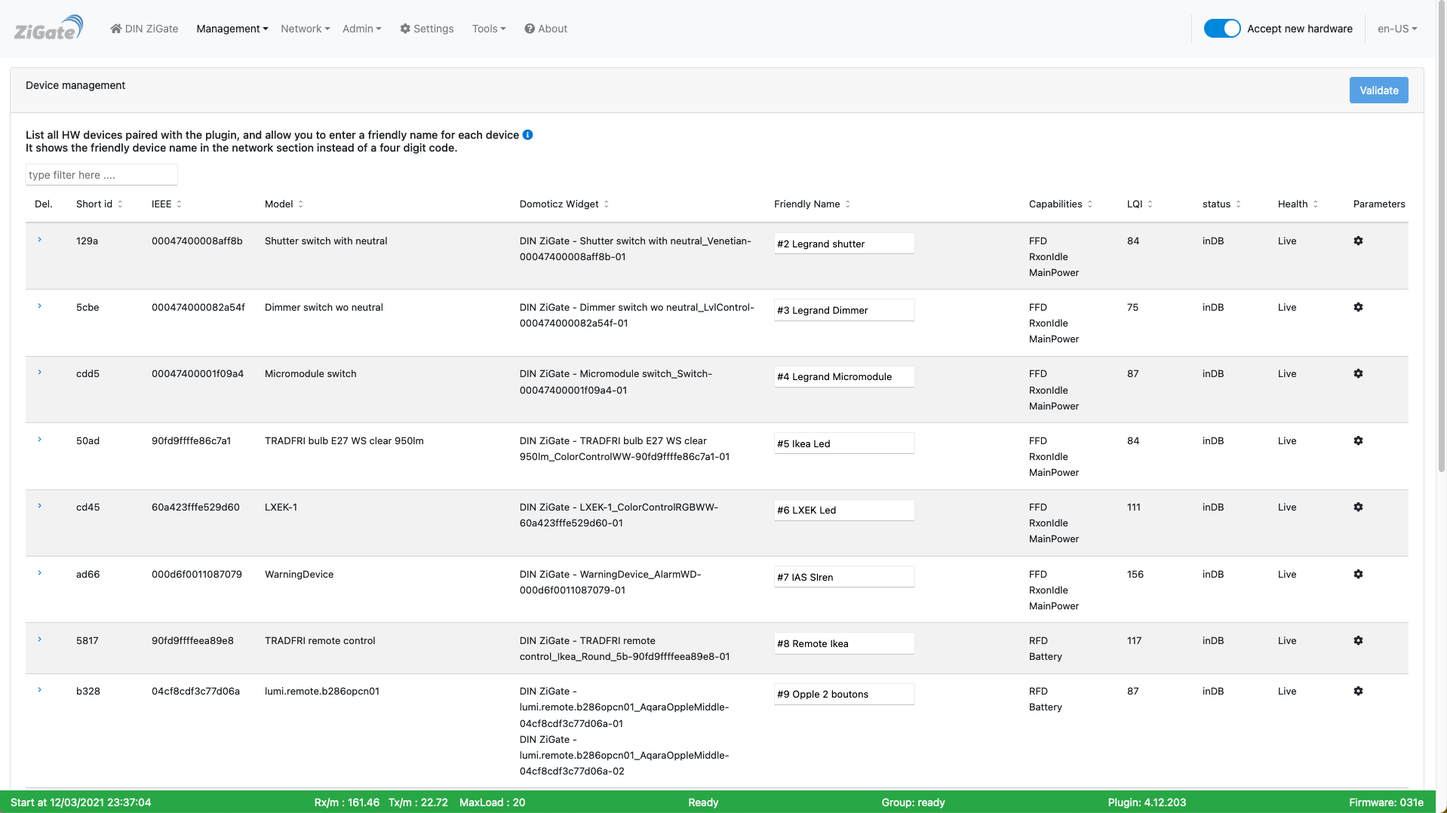
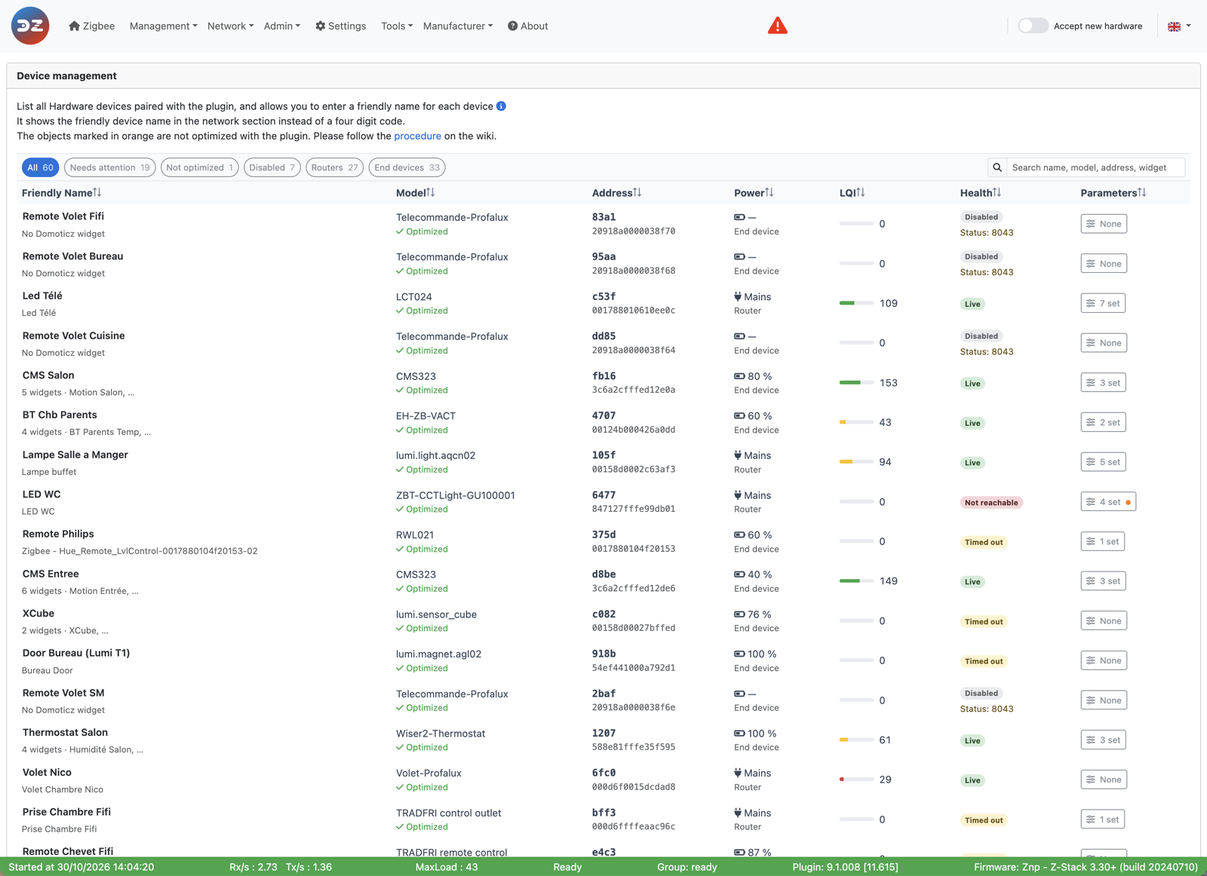
Document the 9.1.009 Dashboard and Device Management pages
Dashboard: key figures, Needs attention with its JSON exports, the
per-minute traffic chart and Since start, the device bars.
Device Management: list, filters and search, rename in the row, the
parameter panel (switch, Fields / JSON), the device details window with
Remove device and Copy device info.

New screenshots from a live installation. The pages that pointed at the
old trash column, the Optimized icon or the {'key': value} syntax now
describe the new controls, with the pre-9.1.009 way in one line.

Claude-Session: https://claude.ai/code/session_017BKZpKLKST3UyQq2TkuUAr

diff --git a/en-eng/WebUI_Management.md b/en-eng/WebUI_Management.md
@@ -11,42 +11,81 @@ The __Management__ menu contains the pages:
 ------------------------------------------------
 ## Device Management
 
-The __Device Management__ page (*Management > Device Management*) lists all the devices paired with the plugin.
+The __Device Management__ page (*Management > Device Management*) lists all the devices paired with the plugin. From it you rename a device, set its parameters, enable or disable it, and open its details.
+
+> **Plugin 9.1.009 and later.** This section describes the Device Management page available since plugin 9.1.009. In older versions, the page is a wide table with a *Del.* (trash) column, an *Optimized* icon to copy the device data, names typed in the table and saved with *Validate*, and a parameter window where the parameters are typed as one text.
 
 ![Device Management](Images/EN_WebUI-Management-Device.png)
 
 *This picture may have changed since this documentation was written.*
 
-### Columns
+### The list
 
 | Column | Content |
 |--------|---------|
-| Del. | A trash icon to remove the device from the plugin, after confirmation. It only appears for a device the plugin considers broken: no Domoticz widget, not found in Domoticz, or a pairing that did not complete. To remove a working device, see [Remove a device](HowTo_Remove-device.md). |
-| Optimized | Green icon: the plugin has a certified configuration for this model. Orange icon: it hasn't (see [Dealing with a non-optimized device](Problem_Dealing-with-none-optimized-device.md)). Clicking either icon copies the device's discovery data to the clipboard, ready to paste into a request for support. |
-| Short id | The network address (NwkId) of the device. It can change when the device rejoins. |
-| IEEE | The unique, permanent address of the device. |
-| Model | The model name reported by the device. |
-| Domoticz Widget | The Domoticz widgets created for this device. |
-| Friendly Name | A name of your choice, used by the WebUI to identify the device. Click the cell to edit it. |
-| Capabilities | What the device announced when it joined: *Full-Function Device* (a router) or *Reduced-Function Device* (an end device), *Main Powered*, *Receiver during Idle* (always listening), security level. |
-| LQI | The last link quality seen from this device. |
-| RSSI | The last signal strength seen from this device. Only shown when the coordinator reports it. |
-| Status | The pairing state of the device in the plugin (`inDB` once fully paired). |
-| Health | `Live`, `Not seen last 24hours`, `Not Reachable`, `TimedOut`, `Disabled`… |
-| Parameters | A cog icon opening the parameter editor of the device (see below). |
+| Friendly Name | The name you gave the device (the model, in italics, when it has none). Below it, its Domoticz widget, or the number of widgets and the first one, or *No Domoticz widget*. Click the name to rename the device (see below). |
+| Model | The model name reported by the device, and below it *Optimized* (in green) when the plugin has a certified configuration for this model, or *Not optimized* (in orange) when it hasn't (see [Dealing with a non-optimized device](Problem_Dealing-with-none-optimized-device.md)). |
+| Address | The network address (short id, NwkId), which can change when the device rejoins, and below it the IEEE, the unique and permanent address of the device. |
+| Power | *Mains*, or the battery level (in red at 15 % and below), and the role of the device in the mesh: *Router* or *End device*. |
+| LQI | The last link quality seen from this device (0 to 255), with a bar: green from 100, orange from 40, red below. When the coordinator reports it, the RSSI is shown below. |
+| Health | *Live*, *Not seen recently*, *Not reachable*, *Timed out*, *Disabled*, *Unknown*. A device whose pairing is not complete shows a warning below: *Pairing failed*, *Not in Domoticz*, or *Status:* followed by the pairing state of the plugin. |
+| Parameters | The number of parameters set for the device (*None* when there is none). An orange dot means the last saved parameters wait for the device's next heartbeat. Click it to open the parameter panel (see below). |
 
-Use the filter box at the top to search any column, and click a column header to sort.
+Above the list:
 
-After editing names, click *Validate* to save.
+* **Quick filters**, with the number of devices in each: *All*, *Needs attention* (not reachable, timed out, not seen recently, battery at 15 % or below, or pairing not complete), *Not optimized*, *Disabled*, *Routers*, *End devices*.
+* **Search**: type part of a name, model, short id, IEEE or widget name.
+
+Click a column header to sort the list. The page remembers your sort order and page size.
+
+### Rename a device
+
+The friendly name is used by the WebUI to show the device, in the network pages for example, instead of its four-digit short id.
+
+![Rename a device](Images/EN_WebUI-Management-Device-Rename.png)
+
+1. Click the name of the device: it becomes an input field.
+1. Type the new name.
+1. Press `Enter`, or click ✓. Only this device is saved, at once.
+
+`Esc`, ✕ or a click elsewhere cancels the change.
 
 ### Parameters
 
-The cog of the *Parameters* column opens a window with:
+The *Parameters* button of a row (or the *Parameters* button of the [device details](#device-details)) opens a side panel:
 
-* **Device enabled**: switch it off to disable the device. The plugin then stops polling and monitoring it, and refuses the commands sent to it; *Health* shows `Disabled`.
-* **Parameters**: the device's own parameters, as JSON. The cog is green when the parameters are in sync with the device, and orange when they have not been pushed to it yet. See [Device parameters](HowTo_Device-parameters.md) for the parameters you can set and their values.
+![Device parameters, Fields](Images/EN_WebUI-Management-Device-Parameters.png)
 
-![Device parameters](../Images/EN_WebUI-Device-management-parametres.png)
+* **Device enabled**: switch it off to disable the device. The plugin then ignores its messages, skips it at heartbeat and sends it no command; *Health* shows *Disabled*. Switch it on again to enable the device.
+* **Device parameters**: the device's own parameters. *What can I set?* opens [Device parameters](HowTo_Device-parameters.md), the list of the parameters and their values. Two views of the same parameters:
+  * **Fields**: one field per parameter. A value is a number, a text, `true` / `false`, or JSON such as `{"01": 600}`; an invalid value is outlined in red. ✕ removes a parameter. To add one, type its name under *Add a parameter*, click *Add*, then fill its value.
+  * **JSON**: all the parameters as one JSON object, checked as you type (*Valid JSON · n parameter(s)*). Use double quotes: `{"PowerPollingFreq": 120}`.
+
+  ![Device parameters, JSON](Images/EN_WebUI-Management-Device-Parameters-JSON.png)
+
+  The `Disabled` parameter is not accepted in either view: use the *Device enabled* switch.
+* **Save parameters** saves the switch and the parameters of this device only. The panel closes once the plugin has accepted them. They are sent to the device at its next heartbeat: until then, the *Parameters* button shows an orange dot. *Cancel*, ✕ or `Esc` closes the panel without saving.
+
+If the parameters stored by the plugin can't be read, the panel opens on the *JSON* view with the stored text, so you can fix it.
+
+### Device details
+
+Click anywhere else on a row (or press `Enter` on a selected row) to open the details of the device:
+
+![Device details](Images/EN_WebUI-Management-Device-Details.png)
+
+* **From the device configuration**: the description and the comment of the device configuration, and a *Blakadder* line: a link to the device page on [zigbee.blakadder.com](https://zigbee.blakadder.com) or, when there is none yet, a *Please create the device info* link to add it.
+* **The device**: name, network id (short id), IEEE, model, manufacturer (code and name), Profile ID and Device ID with their meaning, health.
+* **Signal**: the last readings of the signal strength (RSSI, in dBm) when the coordinator reports it, else of the link quality (LQI), with the latest, lowest and highest values.
+* **Domoticz widgets**: the widgets created for this device.
+* **Node descriptor**: what the device announced about itself, decoded: logical type (coordinator, router, end device), frequency band, MAC capability (full- or reduced-function device, mains or battery powered, receiver on when idle…), manufacturer code, buffer and transfer sizes, server mask, stack compliance revision.
+
+The buttons at the bottom:
+
+* **Remove device**: removes the device from the plugin, after confirmation. It is only available for a device whose pairing failed, that is not in Domoticz, or that has no widget. To remove a working device, see [Remove a device](HowTo_Remove-device.md).
+* **Copy device info**: copies the discovery data of the device (what the plugin learned during pairing) to the clipboard, ready to paste into a request for support or for the optimization of the device (see [Dealing with a non-optimized device](Problem_Dealing-with-none-optimized-device.md)).
+* **Parameters**: opens the [parameter panel](#parameters).
+* **Close**.
 
 ------------------------------------------------
 ## Group Management

diff --git a/en-eng/WebUI_Dashboard.md b/en-eng/WebUI_Dashboard.md
@@ -2,25 +2,64 @@
 
 Please refer to STEP 3 [Plugin Configuration](Plugin_Configuration.md) to get access to the Web interface administration.
 
-The __Dashboard__ is the home page of the WebUI (the first item of the menu bar, with the name of your plugin hardware). It shows at a glance whether the plugin, the coordinator and the devices are doing well.
+The __Dashboard__ is the home page of the WebUI (the first item of the menu bar, with the name of your plugin hardware). It shows at a glance whether the plugin, the coordinator and the devices are doing well, and what needs your attention.
+
+> **Plugin 9.1.009 and later.** This page describes the Dashboard available since plugin 9.1.009. Older versions show a single row of pie charts (*Plugin devices*, *Send & Receive*, *Statistics*, then *Type of devices*, *Battery*, *Optimized devices*) instead of the key figures, the *Needs attention* list and the bars described below.
 
 ![Dashboard](Images/EN_WebUI-Dashboard.png)
 
 *This picture may have changed since this documentation was written.*
 
-## Plugin Status (top row)
+## Key figures (top row)
 
-* **Plugin devices**: the devices known to the plugin by health — *live*, *lost* (away from the network), *no news* (not seen in the last 24 hours), *disabled*, *unknown*.
-* **Send & Receive**: the number of messages sent (*Tx*) and received (*Rx*) since the plugin started.
-* **Statistics**: messages sent and received per second (*Tx/s*, *Rx/s*) and the *Load*, the number of messages waiting to be sent by the coordinator, as its current and peak value.
+| Figure | What it shows |
+|--------|---------------|
+| **Devices live** | The devices in *Live* health, out of all the devices known to the plugin, and how many are not live. |
+| **Received / min** | The messages received per minute, and below them the messages sent per minute, both averaged since the plugin started. |
+| **Delivery** | The share of unicast messages acknowledged by the device (APS ack), out of those acknowledged or failed, since the plugin started, with both counts below. Green from 98 %, orange from 90 %, red below. |
+| **Coordinator** | The coordinator model, its firmware version and the Zigbee channel. |
+| **Plugin** | The plugin version when it runs from a `stable` branch. On any other branch, the branch name and its commit, shown in orange: useful when you test a fix branch. |
+| **Uptime** | How long the plugin has been running, and when it started. |
+| **Firmware updates** | Only while an OTA firmware transfer runs: the device(s) being updated and the progress, with a link to *Admin > Firmware* (see [Update device firmware](HowTo_Update-device-firmware.md)). |
 
-## Status of non-disabled objects (bottom row)
+## Needs attention
 
-* **Type of devices**: *routers* (mains-powered devices that relay messages in the mesh) and *end devices* (devices that don't route and sleep most of the time, usually battery powered).
+This list gathers what may need an action. Only the items that apply are shown; when there are none, the Dashboard says *Nothing needs attention*.
+
+| Item | Meaning |
+|------|---------|
+| **Not reachable** | Devices the plugin could not reach (health *Not reachable*), or that left the network. |
+| **New errors in the plugin log** | The plugin has logged new errors. They are also signalled by the warning icon in the menu bar. Viewing or downloading them marks them as read. |
+| **Battery below 15 %** | Battery devices that need a new battery soon, lowest first. |
+| **Not seen for *n* h** | Devices that sent nothing for the delay set by the `HealthTimeOut` setting. |
+| **Groups with a member not reachable or not seen** | Zigbee groups with at least one member that is not reachable or not seen: a command sent to the group may not reach every member. |
+| **Not optimized** | Devices without a certified configuration, handled generically by the plugin. See [Dealing with a non-optimized device](Problem_Dealing-with-none-optimized-device.md). |
+| **Firmware update available** | Devices for which the plugin has a newer firmware than the one they run. *Admin > Firmware* lets you start the update. |
+
+Each item has two buttons:
+
+* the **eye** opens the list of the devices concerned (for the log errors, it opens *Tools > Error*, see [WebUI Tools](WebUI_Tools.md#error));
+* the **download** button saves the item as a JSON file (`z4d-<item>.json`).
+
+*Export all* saves every item in one file, `z4d-needs-attention.json`. Each file also carries the plugin version, branch and commit, and the coordinator model, firmware and channel: it is ready to attach to a request for support (see [Reporting a problem](Troubleshooting_Reporting-a-problem.md)). It contains no network key or password.
+
+## Plugin Status
+
+* **Statistics**: the messages received and sent per minute over the last 10 minutes, each point counting the last minute. The light bars, on the right axis, show the *Load*: the number of messages waiting in the coordinator's transmit queue. A load that stays high means the coordinator can't keep up (see *MaxLoad* in [The footer](#the-footer)).
+* **Since start**: the totals since the plugin started: messages received and sent, retransmissions, APS failures (unicast messages the device did not acknowledge), and the highest queue load reached (*Max queue load*).
+
+Click the ⓘ next to a title to see how the figure is defined.
+
+## Devices
+
+Each family of devices is a bar, split by state. Click a part of a bar, or one of the labels below it, to open the list of the matching devices (short id, IEEE, model, name, status, battery, health). *Device Management →* opens the [Device Management](WebUI_Management.md#device-management) page.
+
+* **Plugin devices**: all the devices known to the plugin, by health: *Live*, *Not seen recently* (no message for the `HealthTimeOut` delay), *Lost* (away from the network), *Unknown*, *Disabled*.
+* **Type of devices**: *Routers* (mains-powered devices that relay messages in the mesh) and *End devices* (devices that don't route and sleep most of the time, usually battery powered).
 * **Battery**: battery-powered devices by battery level (< 15 %, < 35 %, < 75 %, > 75 %).
-* **Optimized devices**: devices for which the plugin has a certified configuration (*optimized*) and the others (*non-optimized*), which may not work fully or may generate unexpected traffic. See [Dealing with a non-optimized device](Problem_Dealing-with-none-optimized-device.md).
+* **Optimized devices**: devices for which the plugin has a certified configuration (*Optimized*) and the others (*Non-optimized*), which may not work fully or may generate unexpected traffic. See [Dealing with a non-optimized device](Problem_Dealing-with-none-optimized-device.md).
 
-Click a slice of any of these charts to open the list of the matching devices (short id, IEEE, model, name, status, battery, health).
+*Type of devices*, *Battery* and *Optimized devices* leave out the disabled devices.
 
 ## Refreshing
 

diff --git a/en-eng/Problem_Dealing-with-none-optimized-device.md b/en-eng/Problem_Dealing-with-none-optimized-device.md
@@ -9,7 +9,7 @@ A device is **non-optimized** when no work has been done yet to integrate its mo
 You can see which devices are optimized:
 
 * on the *Dashboard*, in the **Optimized devices** chart (see [WebUI Dashboard](WebUI_Dashboard.md));
-* in *Management > Device Management*, in the **Optimized** column: green icon for optimized, orange icon for non-optimized (see [WebUI Management](WebUI_Management.md#device-management));
+* in *Management > Device Management*, under the model of each device: *Optimized* in green, *Not optimized* in orange; the *Not optimized* filter lists them (see [WebUI Management](WebUI_Management.md#device-management)). Before plugin 9.1.009: the green or orange icon of the **Optimized** column;
 * in *Tools > Tools*, with the **Non-optimized devices** button, which lists the discovery data of every non-optimized device (see [Use the plugin tools](HowTo_Using-tools.md)).
 
 ## After pairing a non-optimized device
@@ -23,7 +23,7 @@ In both cases, sharing the device data helps get the device optimized, for you a
 
 ## Ask for the device to be optimized
 
-1. Go to *Management > Device Management* and click the orange icon of the device in the *Optimized* column. Its discovery data (what the plugin learned during pairing) is copied to the clipboard. This is the minimum needed to work on the device.
+1. Go to *Management > Device Management*, click the device row to open its details, and click *Copy device info* (before plugin 9.1.009: click the orange icon of the device in the *Optimized* column). Its discovery data (what the plugin learned during pairing) is copied to the clipboard. This is the minimum needed to work on the device.
 1. Create an issue on GitHub: [request a certified device model](https://github.com/zigbeefordomoticz/z4d-certified-devices/issues/new?assignees=&labels=Device+Integration&projects=&template=certified-device-model.md&title=%5BModel+Certification%5D+-+).
 1. Paste the discovery data, and add:
    * the product name and brand;

diff --git a/en-eng/Troubleshooting_Reporting-a-problem.md b/en-eng/Troubleshooting_Reporting-a-problem.md
@@ -32,7 +32,7 @@ A device request opened on Domoticz-Zigbee is not a bug: it will be redirected t
 
 Open an issue on [z4d-certified-devices](https://github.com/zigbeefordomoticz/z4d-certified-devices/issues) when:
 
-* you paired a device that is **not optimized** yet: the orange icon in the *Optimized* column of *Management > Device Management*, or the log message `We have detected a working device ... not optimized with the plugin`;
+* you paired a device that is **not optimized** yet: *Not optimized* under its model in *Management > Device Management* (the orange icon of the *Optimized* column before plugin 9.1.009), or the log message `We have detected a working device ... not optimized with the plugin`;
 * an optimized device needs an update: a widget is missing, a value is wrong, or a new firmware or model variant doesn't behave like the one already known.
 
 See [Dealing with a non-optimized device](Problem_Dealing-with-none-optimized-device.md) for the complete procedure.
@@ -136,7 +136,7 @@ The `Python/zigpy...` modules show the messages of the zigpy library itself. The
 ### A device on z4d-certified-devices
 
 * The product name and brand, and a link to the product page or where you bought it.
-* The discovery data: in *Management > Device Management*, click the orange icon of the device in the *Optimized* column, it is copied to the clipboard.
+* The discovery data: in *Management > Device Management*, click the device row, then *Copy device info* in its details (before plugin 9.1.009: click the orange icon of the device in the *Optimized* column). It is copied to the clipboard.
 * What works, what doesn't, and what you expect.
 * The pairing log, with the `Pairing` debug modules enabled (see [above](#4-use-the-debug-parameters)).
 * If asked: the device data, from *Tools > Tools*, **Plugin Raw Devices**, then *Export* (`export.json`).

diff --git a/en-eng/HowTo_Device-parameters.md b/en-eng/HowTo_Device-parameters.md
@@ -2,14 +2,16 @@
 
 A number of parameters are available inside the plugin to customize the behavior of the plugin or the behavior of the device.
 
-By default, a Certified device get default parameters already initialized. If you want to customize, you have to go to the plugin Web Admin page,
-then go to Management -> Device Management and you will find for each device a Parameters icon ( right column ) > a popup will open :
+By default, a certified device gets its default parameters when it is paired. To change them, open the plugin WebUI, go to *Management > Device Management* and click the *Parameters* button of the device (last column). A side panel opens:
 
-![EN_WebUI-Device-management-parametres.png](../Images/EN_WebUI-Device-management-parametres.png)
+![Device parameters](Images/EN_WebUI-Management-Device-Parameters.png)
 
-You can edit this field, by adding, removing or updating attributes. Please make sure to follow the syntax:
+* in the **Fields** view, change a value, remove a parameter with ✕, or add one with *Add a parameter*;
+* in the **JSON** view, edit all the parameters as one JSON object, with double quotes: `{"parameter1": value, "parameter2": value}`.
 
-{ 'parameter1': value, 'parameter2': value .... }
+Then click *Save parameters*: they are sent to the device at its next heartbeat. See [WebUI Management](WebUI_Management.md#parameters) for the details of the panel.
+
+> **Before plugin 9.1.009**, the *Parameters* icon opens a window with a single text field, in the form `{'parameter1': value, 'parameter2': value}`.
 
 > **Note:** the parameter names below must be used exactly as written, including the few that are misspelled in the engine (e.g. `KeybadLockout`, `ZG204Z_MotionSensivity`, `SonOffTRVWindowDectection`). Using the corrected spelling would have no effect.
 

diff --git a/en-eng/HowTo_Device-Customization.md b/en-eng/HowTo_Device-Customization.md
@@ -226,13 +226,11 @@ To do so, you have to create a 'config' file under the `Conf/Local-Devices` fold
 
 1. First you need to extract raw device information from the plugin.
 
-   1. open the WebUI and go to the Device Management section
+   1. open the WebUI and go to *Management > Device Management* (see [WebUI Management](WebUI_Management.md#device-management)).
 
-    ![WebUI:Device Management](Images/EN_WebUI_Device-Management-Not_Optimized.png)
+   1. the devices shown as *Not optimized* (in orange, under the model) have no configuration file for the plugin, and their behavior might not be optimum. The *Not optimized* filter lists them.
 
-   1. as shown on the screenshot here above you'll see a list of devices, and the ones with the yellow icon refer to devices for which there is no associated config file for the plugin and their behavior might not be optimum.
-
-   1. Click on the yellow icon, it will copy immediately the necessary information to the Clipboard. You can then paste it in a Json viewer ( like that one [JsonViewer](https://countwordsfree.com/jsonviewer) ). You will see a result like this one
+   1. Click the row of the device to open its details, then click *Copy device info*: the necessary information is copied to the clipboard (before plugin 9.1.009: click the orange icon of the *Optimized* column). You can then paste it in a Json viewer ( like that one [JsonViewer](https://countwordsfree.com/jsonviewer) ). You will see a result like this one
 
     ![JsonViewer Example](../Images/jsonviewer.png)
 

diff --git a/en-eng/Info_Compatible-devices.md b/en-eng/Info_Compatible-devices.md
@@ -7,7 +7,7 @@ A **certified** (or *optimized*) device is a device model for which the plugin h
 * **[zigbee.blakadder.com](https://zigbee.blakadder.com/z4d.html)** lists the devices known to work with the plugin (gateway *Zigbee for Domoticz*), with pictures and pairing tips. Search it first.
 * **The [z4d-certified-devices](https://github.com/zigbeefordomoticz/z4d-certified-devices) repository** holds the configuration files the plugin uses, one per Zigbee model, under `z4d_certified_devices/Certified/<brand>/<model>.json`. It is installed with the plugin's Python requirements, and updated when you upgrade the plugin (see [Plugin update](Plugin_Update.md)). A model is certified when a file with its Zigbee model name exists there (see [Model name resolution](Technical/Model-name-resolution.md)).
 
-To find out whether your device is certified, look for its Zigbee model name (shown in *Management > Device Management*, *Model* column) in the repository, or check the *Optimized* column of Device Management once it is paired.
+To find out whether your device is certified, look for its Zigbee model name (shown in *Management > Device Management*, *Model* column) in the repository, or check whether Device Management shows it as *Optimized* once it is paired.
 
 ## Certified models by brand
 

diff --git a/en-eng/Corner_Blitzwolf.md b/en-eng/Corner_Blitzwolf.md
@@ -27,7 +27,7 @@ You can remove one on the unused power device. The cumulated consumption is upda
 
 The power device also shows the instant power consumption. The plug doesn't report it by itself, so the plugin polls it: this is the [device parameter](HowTo_Device-parameters.md) `PowerPollingFreq`, in seconds. The certified configuration of the plug (`TS0121`) sets it to **300** (every 5 minutes) when the device is paired; `0` disables the polling.
 
-To change it, open the plugin WebUI, go to **Management > Device Management**, click on the **Parameters** icon of the plug and change the value, for example `{'PowerPollingFreq': 120}`. 120 seconds is enough for a washer, to know when the machine starts and finishes.
+To change it, open the plugin WebUI, go to **Management > Device Management**, click the **Parameters** button of the plug and set `PowerPollingFreq` to the value you want, for example `120`, then **Save parameters**. 120 seconds is enough for a washer, to know when the machine starts and finishes.
 
 ## Bonus
 

diff --git a/en-eng/HowTo_Remove-device.md b/en-eng/HowTo_Remove-device.md
@@ -49,4 +49,4 @@ If the device is not reset, it stays in the network and keeps sending its data t
 
 ## A device the plugin still lists
 
-If the device still appears in *Management > Device Management* (for example a device whose widgets were deleted while the plugin was stopped, or whose pairing never completed), click the trash icon in the *Del.* column and confirm. The trash icon only appears for a device that has no working widget in Domoticz. See [WebUI Management](WebUI_Management.md#device-management).
+If the device still appears in *Management > Device Management* (for example a device whose widgets were deleted while the plugin was stopped, or whose pairing never completed), click its row to open the device details, click *Remove device* and confirm. *Remove device* is only available for a device whose pairing failed, that is not in Domoticz, or that has no widget. See [WebUI Management](WebUI_Management.md#device-details). Before plugin 9.1.009, click the trash icon in the *Del.* column instead.

diff --git a/en-eng/Objects.md b/en-eng/Objects.md
@@ -5,7 +5,7 @@ Most Zigbee devices work with the plugin. Some are **optimized** (or *certified*
 ## Is my device optimized?
 
 * Look for it on [zigbee.blakadder.com](https://zigbee.blakadder.com/z4d.html), under the gateway **Zigbee for Domoticz**, or in the list of [certified devices](Info_Compatible-devices.md).
-* Once paired, check the *Optimized* column of *Management > Device Management* in the WebUI (green: optimized, orange: not optimized), or the *Optimized devices* chart of the Dashboard.
+* Once paired, check *Management > Device Management* in the WebUI (*Optimized* in green or *Not optimized* in orange under the model), or the *Optimized devices* bar of the Dashboard.
 
 Some optimized devices still need a specific setup: see the [Devices specifics](Readme.md#devices-specifics) pages.
 

diff --git a/en-eng/Corner_Philips-Gledopto.md b/en-eng/Corner_Philips-Gledopto.md
@@ -14,8 +14,8 @@ Polling is a **per-device** setting: the [device parameter](HowTo_Device-paramet
 To change it for a light:
 
 1. Open the plugin WebUI and go to **Management > Device Management**.
-1. Click on the **Parameters** icon of the light (right column).
-1. Change the value, for example `{'OnOffPollingFreq': 120}` to poll every 2 minutes, and save. Keep the other parameters of the device as they are.
+1. Click the **Parameters** button of the light (last column).
+1. Set `OnOffPollingFreq` to the value you want, for example `120` to poll every 2 minutes, and click **Save parameters**. Keep the other parameters of the device as they are.
 
 ## Which interval to choose?
 

diff --git a/en-eng/Problem_Debuging-mode.md b/en-eng/Problem_Debuging-mode.md
@@ -97,7 +97,7 @@ See also [Dealing with not-optimized devices](Problem_Dealing-with-none-optimize
 ## Short Address and IEEE
 
 * You can get the Short Address and/or the IEEE of the Device:
-  * via the Plugin Web Interface in the **Management > Device Management** menu (short address and IEEE columns)
+  * via the Plugin Web Interface in the **Management > Device Management** menu (*Address* column: short address, and the IEEE below it)
   * via DomoticZ, in **Setup > Devices**: the IEEE can be found in the ID column
 
 The short address can change when a device leaves and joins the network again: check it again if a device is re-paired.
